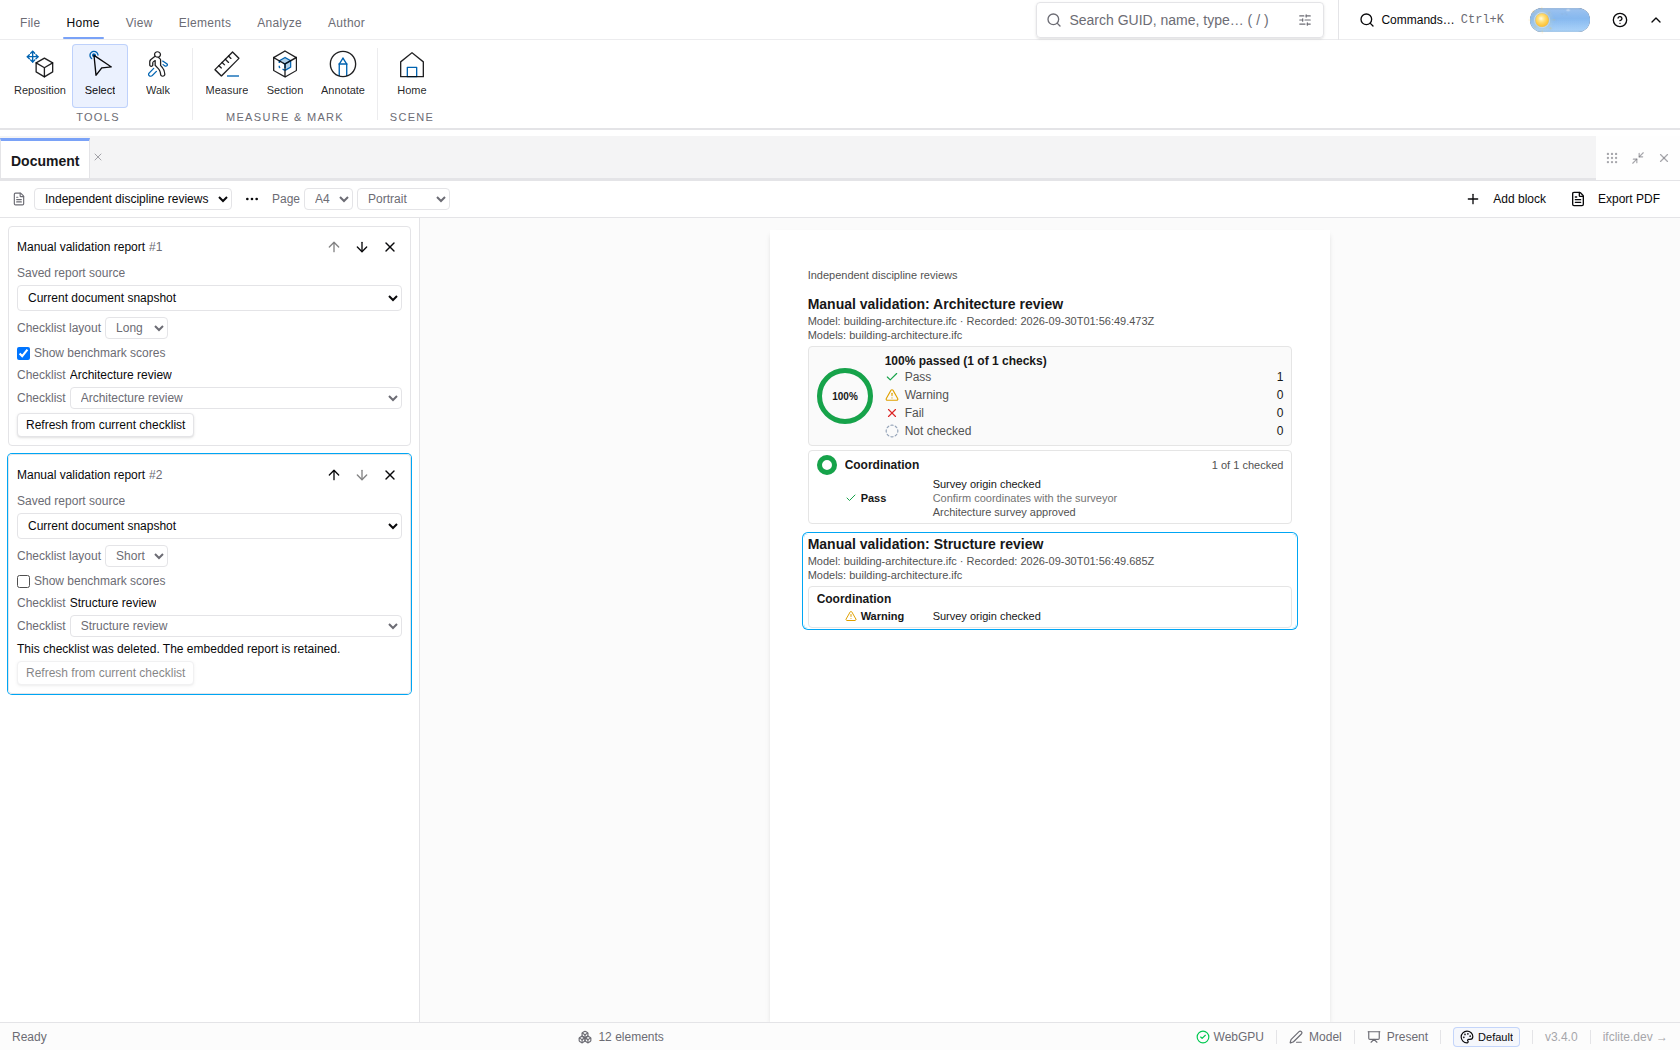
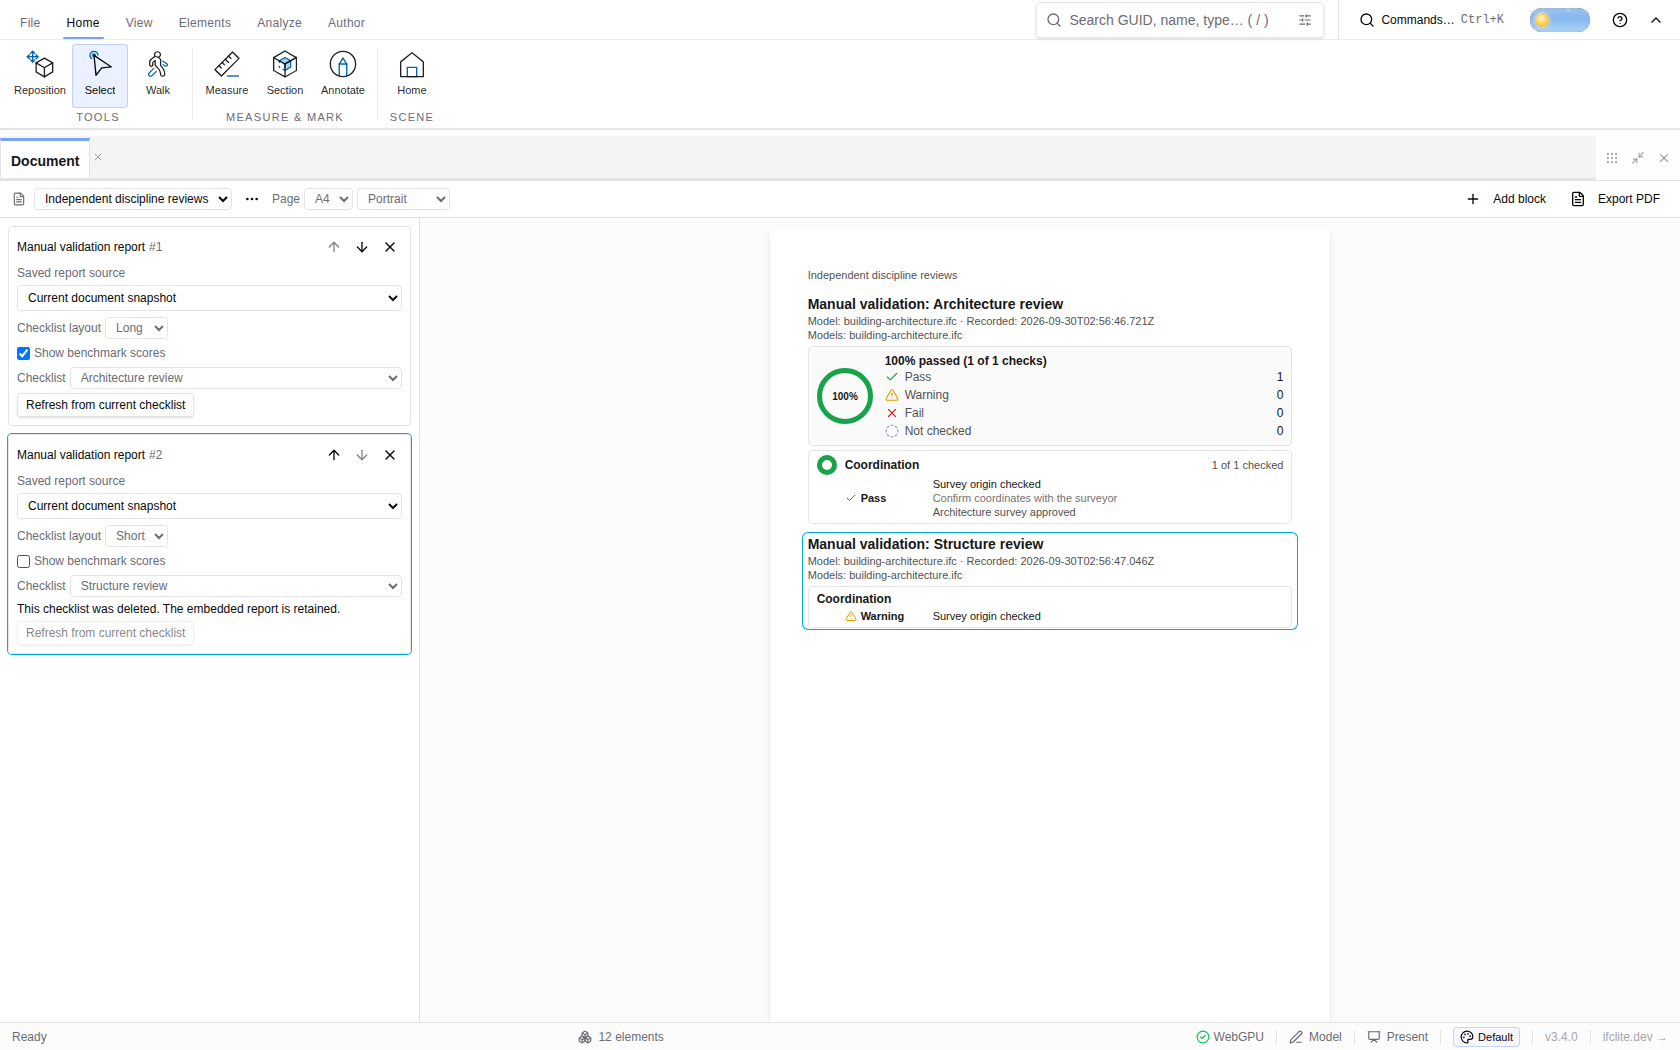
fix(viewer): show one checklist source selector per report (#6507)

Changed region(s): [[0.0, 0.3352, 0.2476, 0.6705]]

diff --git a/apps/viewer/src/components/viewer/document/ManualReportBlockEditor.tsx b/apps/viewer/src/components/viewer/document/ManualReportBlockEditor.tsx
@@ -35,11 +35,6 @@ export function ManualReportBlockEditor({ block, onChange }: { block: ManualRepo
 
   return (
     <div className="flex flex-col gap-1">
-      <div className="flex items-center gap-1 text-muted-foreground">{t('manualValidation.report.sourceLabel')}
-        <span className="min-w-0 truncate font-medium text-foreground" title={block.checklistName}>
-          {block.checklistName.trim() || t('manualValidation.name.placeholder')}
-        </span>
-      </div>
       <label className="inline-flex min-w-0 items-center gap-1 text-muted-foreground">{t('manualValidation.report.sourceLabel')}
         <select className={`${field} min-w-0 flex-1`} aria-label={t('manualValidation.report.sourceLabel')} value={block.checklistId ?? ''} disabled={missing}
           onChange={(event) => replaceSnapshot(event.target.value)}>

diff --git a/docs/architecture/evidence/manual-checklist-instances-6507/README.md b/docs/architecture/evidence/manual-checklist-instances-6507/README.md
@@ -22,3 +22,5 @@ PLAYWRIGHT_PORT=6657 pnpm exec playwright test tests/e2e/document-text.e2e.spec.
 The legacy migration tests also preserve closed-checklist decisions whose original discipline/template identity was never stored. Matching question identifiers can recover evidence, but cannot establish that unavailable identity; unmatched entries are retained. The screenshots and PDF above show new independent instances whose identity is known.
 
 The review correction also tests verdicts arriving after the last checklist is closed or deleted: both mounted workflows return a typed failure, show a selection-required message in both locales, and leave the persisted evidence unchanged. Reverting the guard makes precisely those two assertions fail while the other ten manual-validation cases remain green; exact restoration passes all twelve.
+
+After removing the redundant static checklist-name row, the existing mounted manual-report source/deletion suite passed 6/6 and both locale cases passed 2/2. The focused real IFC Chrome/PDF scenario passed in 25.5s; the refreshed images show one checklist source selector per block, preserving each embedded name when its live source is deleted. The source selector, model selector, Refresh, layout and benchmark behavior were unchanged.
